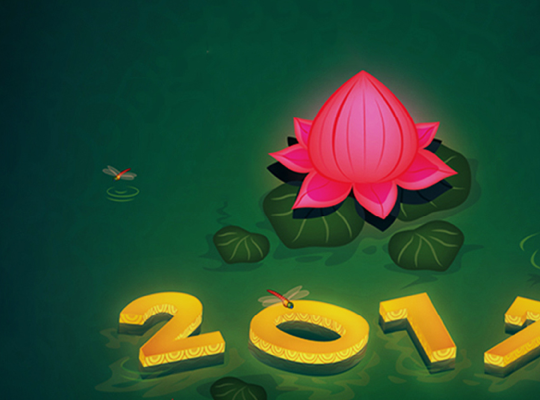
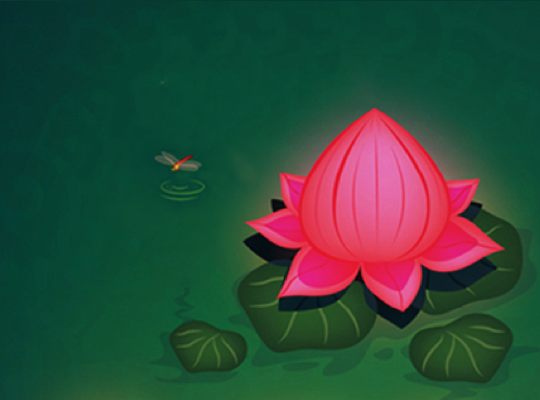
2017 calendar

diff --git a/_assets/css/pages/_sass/caseStudy_detail/caseStudy_detail.scss b/_assets/css/pages/_sass/caseStudy_detail/caseStudy_detail.scss
@@ -363,10 +363,10 @@
                 margin-bottom: 271px;
                 img{
                     min-height: 174px;
-                    width: 262px;
+                    width: 306px;
                     top: 75%;
                     height: 262px;
-                    margin-left: -131px;
+                    margin-left: -156px;
                     left: 50%;
                 }
             }  
@@ -403,11 +403,10 @@
             }
             .SceneImg2{
                 img{
-                    width: 52%;
-                    height: 40%;
-                    top: 57%;
-                    right: 11%;
-                
+                    width: 235px;
+                    height: 150px;
+                    top: 61%;
+                    right: 13%;
                 }
             }
             &__eImg{

diff --git a/assets/css/caseStudy-product.css b/assets/css/caseStudy-product.css
@@ -2710,10 +2710,10 @@ html, body {
     margin-bottom: 271px; }
     .caseStudy .SceneImg img {
       min-height: 174px;
-      width: 262px;
+      width: 306px;
       top: 75%;
       height: 262px;
-      margin-left: -131px;
+      margin-left: -156px;
       left: 50%; }
   .caseStudy__bgImg1 {
     margin-top: 35px;
@@ -2742,10 +2742,10 @@ html, body {
     width: 100%;
     padding: 31px; }
   .caseStudy .SceneImg2 img {
-    width: 52%;
-    height: 40%;
-    top: 57%;
-    right: 11%; }
+    width: 235px;
+    height: 150px;
+    top: 61%;
+    right: 13%; }
   .caseStudy__eImg {
     margin-top: 35px; }
   .caseStudy__content5 {

diff --git a/assets/css/caseStudy-service.css b/assets/css/caseStudy-service.css
@@ -2710,10 +2710,10 @@ html, body {
     margin-bottom: 271px; }
     .caseStudy .SceneImg img {
       min-height: 174px;
-      width: 262px;
+      width: 306px;
       top: 75%;
       height: 262px;
-      margin-left: -131px;
+      margin-left: -156px;
       left: 50%; }
   .caseStudy__bgImg1 {
     margin-top: 35px;
@@ -2742,10 +2742,10 @@ html, body {
     width: 100%;
     padding: 31px; }
   .caseStudy .SceneImg2 img {
-    width: 52%;
-    height: 40%;
-    top: 57%;
-    right: 11%; }
+    width: 235px;
+    height: 150px;
+    top: 61%;
+    right: 13%; }
   .caseStudy__eImg {
     margin-top: 35px; }
   .caseStudy__content5 {

diff --git a/assets/css/caseStudy_detail.css b/assets/css/caseStudy_detail.css
@@ -2710,10 +2710,10 @@ html, body {
     margin-bottom: 271px; }
     .caseStudy .SceneImg img {
       min-height: 174px;
-      width: 262px;
+      width: 306px;
       top: 75%;
       height: 262px;
-      margin-left: -131px;
+      margin-left: -156px;
       left: 50%; }
   .caseStudy__bgImg1 {
     margin-top: 35px;
@@ -2742,10 +2742,10 @@ html, body {
     width: 100%;
     padding: 31px; }
   .caseStudy .SceneImg2 img {
-    width: 52%;
-    height: 40%;
-    top: 57%;
-    right: 11%; }
+    width: 235px;
+    height: 150px;
+    top: 61%;
+    right: 13%; }
   .caseStudy__eImg {
     margin-top: 35px; }
   .caseStudy__content5 {

diff --git a/_includes/common_header.html b/_includes/common_header.html
@@ -26,7 +26,7 @@
         <li><a href="/practice">Practice</a></li>
         <li><a href="/our-services">Services</a></li>
           <li><a href="/aboutus">About</a></li>
-        <li><a><button class="commonButton myBtn" >Lets talk</button></a></li>
+        <li><a><button class="commonButton myBtn" >Let’s talk</button></a></li>
 
       </ul>
     </nav>

diff --git a/_assets/js/pages/common.js b/_assets/js/pages/common.js
@@ -38,6 +38,9 @@ $(window).resize(function(){
     // }
     
 });
+    window.onhashchange = function() {
+        alert('data');
+    }
     $(document).ready(function() {
         // debugger;
         if(screen.width > 767){

diff --git a/assets/js/pages/common.js b/assets/js/pages/common.js
@@ -38,6 +38,9 @@ $(window).resize(function(){
     // }
     
 });
+    window.onhashchange = function() {
+        alert('data');
+    }
     $(document).ready(function() {
         // debugger;
         if(screen.width > 767){
